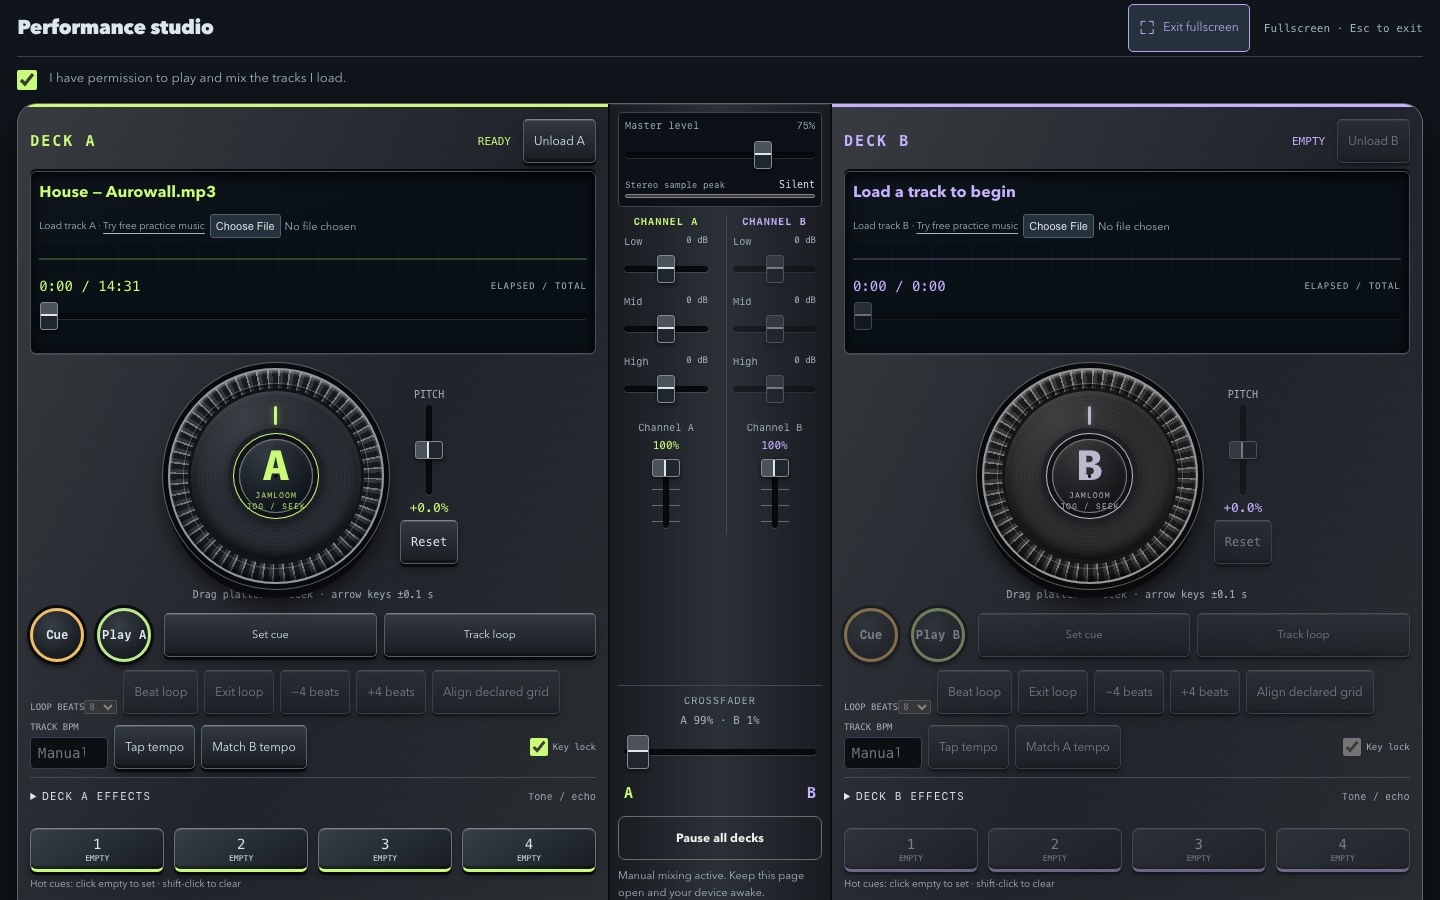
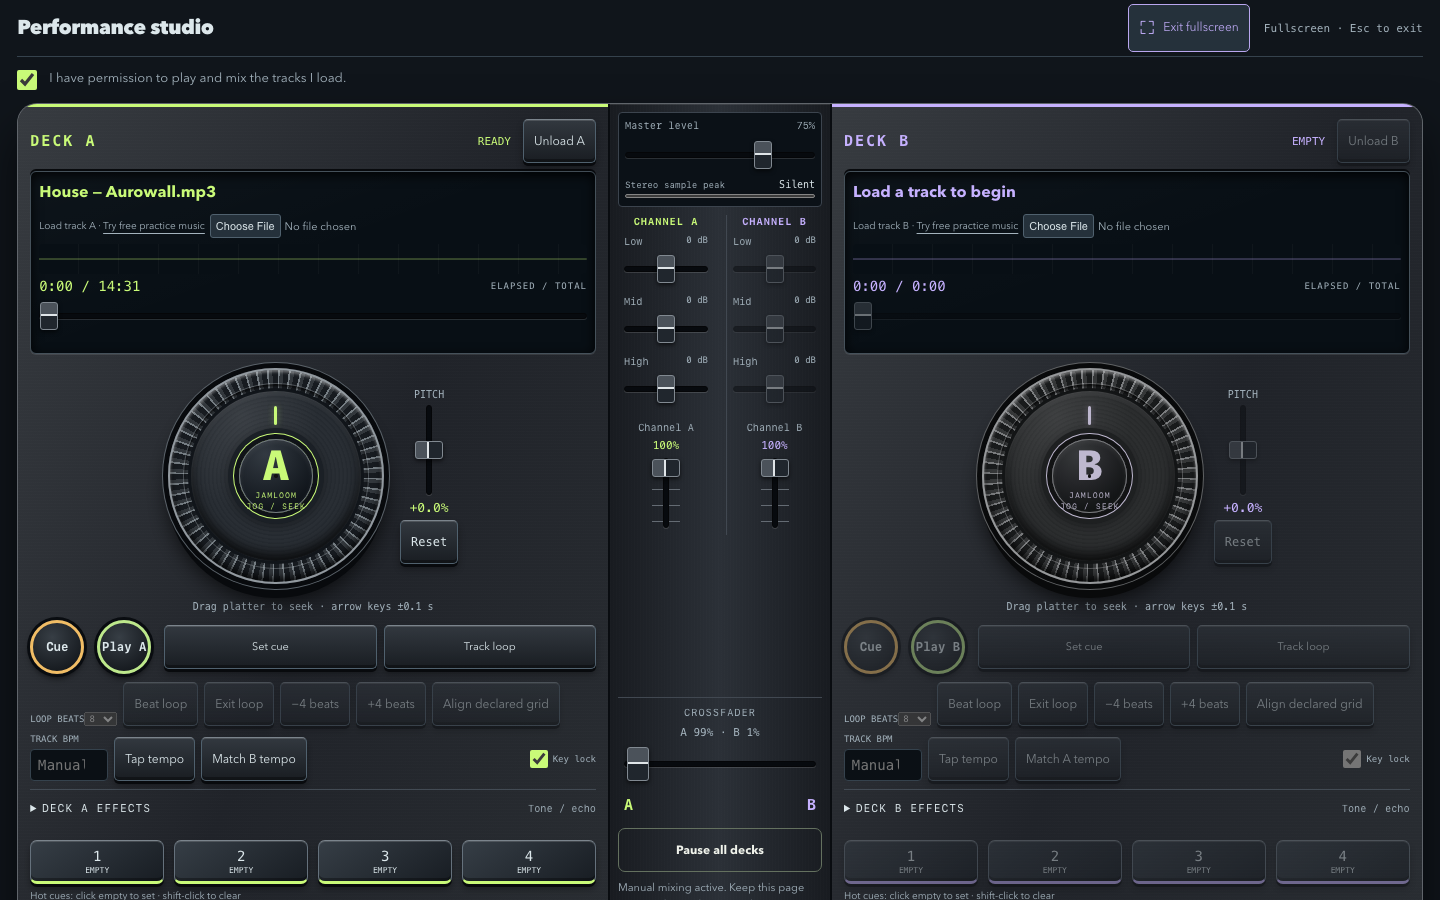
Keep platter seek hints clear below raised rims

diff --git a/apps/web/dj.css b/apps/web/dj.css
@@ -26,7 +26,7 @@ input::file-selector-button { background:#25313b; border:1px solid #50616e; colo
 .position-readout { display:flex; justify-content:space-between; align-items:center; padding-top:8px; font:17px ui-monospace,Menlo,monospace; }
 .position-readout span { font-size:9px; letter-spacing:1px; color:var(--muted); }
 .deck-display > input[type=range] { min-height:24px; }
-.platter-row { display:flex; align-items:center; justify-content:center; gap:30px; padding-top:20px; }
+.platter-row { display:flex; align-items:center; justify-content:center; gap:30px; padding-top:20px; padding-bottom:12px; }
 /* Machined rim stays stationary; the existing transport rotates only the inner disc. */
 .jog { position:relative; flex-shrink:0; width:clamp(160px,22vw,320px); aspect-ratio:1; border-radius:50%; touch-action:none; cursor:grab; padding:18px; border:2px solid #92999f; background:repeating-conic-gradient(from 1deg,#747c82 0deg 1deg,#32373c 1deg 3deg,#171b20 3deg 6deg); box-shadow:inset 0 2px 3px #ffffff60,inset 0 -5px 6px #000b,0 0 0 5px #080a0d,0 0 0 6px #5a6269,0 12px 0 2px #080a0d,0 17px 22px #000b; outline:2px solid transparent; outline-offset:6px; transition:outline-color .14s ease; }
 .jog::after { content:''; pointer-events:none; position:absolute; inset:13px; border-radius:50%; border:1px solid #bbc3c955; box-shadow:inset 0 2px 3px #000b; }

diff --git a/docs/deck-hardware-and-curation.md b/docs/deck-hardware-and-curation.md
@@ -12,6 +12,8 @@ Homepage platters now use the same play/pause handler as their transport buttons
 Studio and Academy retain jog seeking, cue, EQ, pitch, crossfade and fullscreen.
 Hover highlights the control frame without moving its hit area; visible keyboard
 focus, reduced motion, 44px transport/pitch targets and responsive layouts remain.
+A final fullscreen review found the lower rim overlapping the seek hint; 12px
+clearance fixes it, with both browser suites and screenshots refreshed.
 This is visual depth, not simulated scratching or additional decorative controls.
 
 ## Aurowall selection
